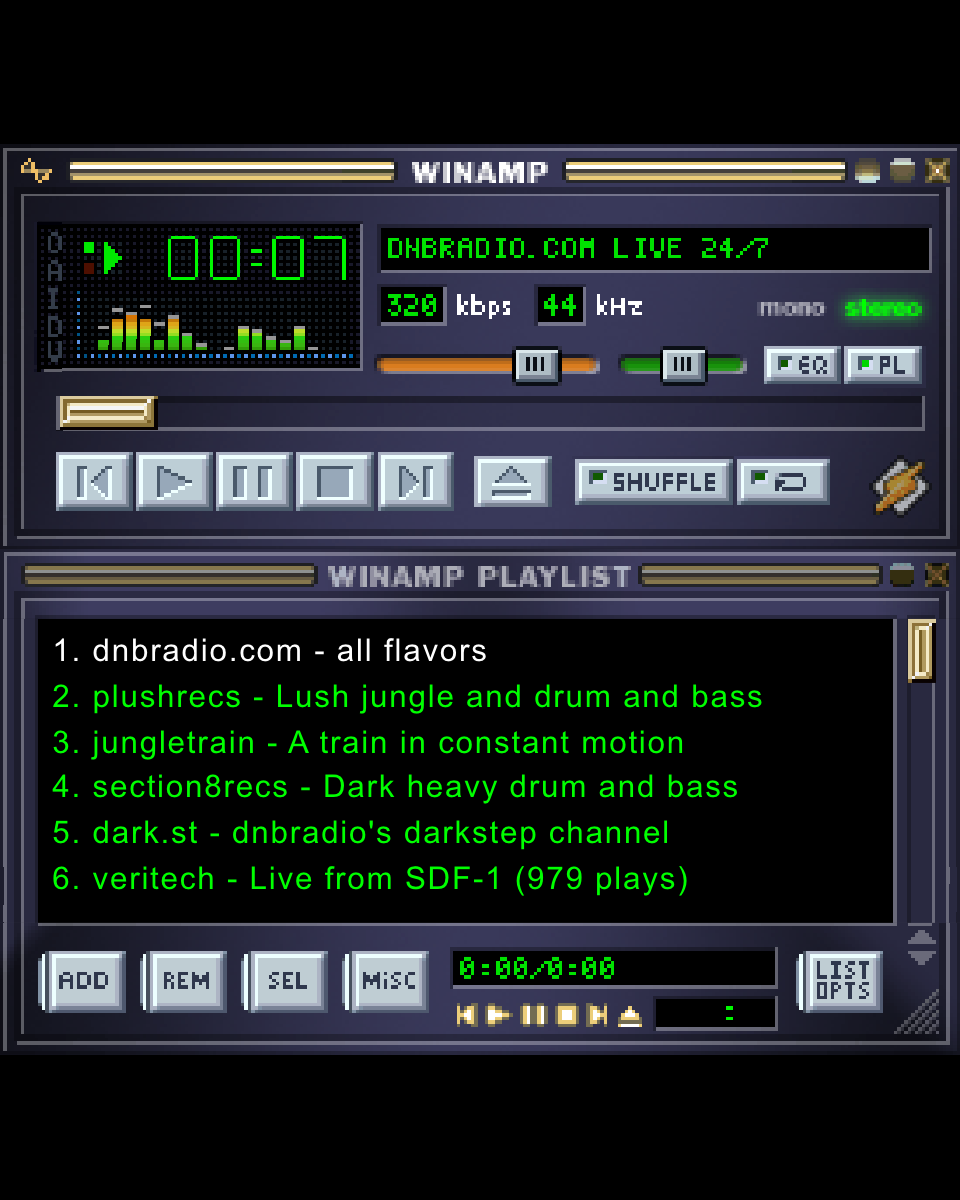
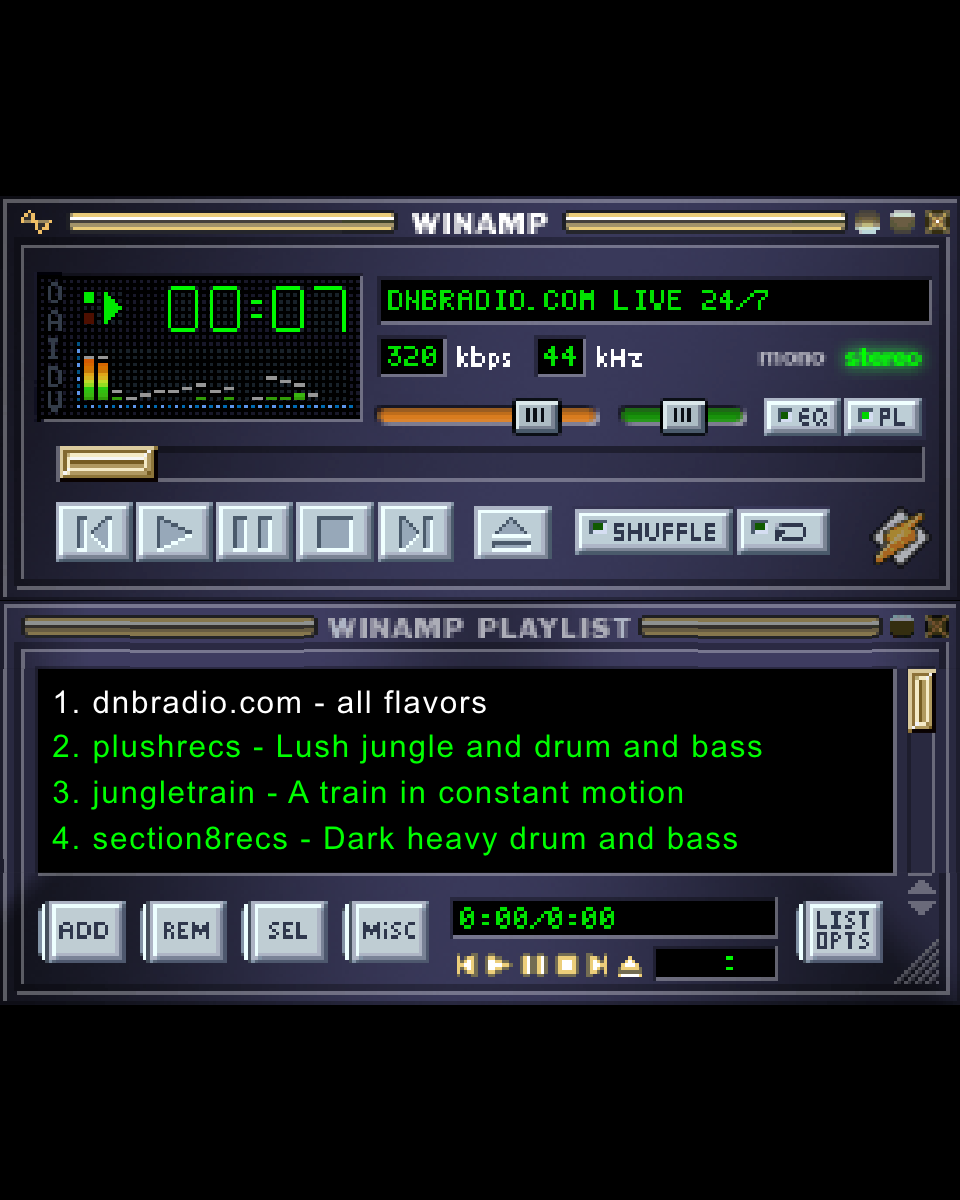
Embed: fixed default layout, EQ opens over the playlist, no saved placement
Every load now shows the main window above the playlist at Winamp's base size (four rows), whatever was saved before. The EQ opens at the playlist's position, covering it, and the DNBRADIO windows take the same place and size. Window positions, sizes, shade and open states are no longer saved or restored; skin, volume, balance, EQ settings, visualizer, and playlists still are. Card images retaken for the new layout.

diff --git a/pages/stations/_stationId/embed.vue b/pages/stations/_stationId/embed.vue
@@ -1,6 +1,10 @@
 <template>
   <div class="winamp-embed">
-    <div ref="stage" class="winamp-stage" />
+    <div
+      ref="stage"
+      class="winamp-stage"
+      :style="{ width: `${LAYOUT_WIDTH}px`, height: `${LAYOUT_HEIGHT}px` }"
+    />
     <div
       ref="windows"
       class="dnb-layer"
@@ -48,9 +52,14 @@ import { loadSettings, saveSettings } from "~/components/embed/settings";
 
 const LAYOUT_WIDTH = 275;
 const MAIN_HEIGHT = 116;
-const PLAYLIST_HEIGHT = 145;
+const PLAYLIST_HEIGHT = 116;
 const LAYOUT_HEIGHT = MAIN_HEIGHT + PLAYLIST_HEIGHT;
 const STANDALONE_MAX_WIDTH = 500;
+const WINDOW_LAYOUT = {
+  main: { position: { top: 0, left: 0 } },
+  equalizer: { position: { top: MAIN_HEIGHT, left: 0 }, closed: true },
+  playlist: { position: { top: MAIN_HEIGHT, left: 0 } },
+};
 const DEFAULT_PODCASTS = 20;
 // Passed as a track duration so Webamp neither probes the URL for its length
 // (which would open every stream on load) nor shows 0:00; rewritten to null.
@@ -76,8 +85,8 @@ const EXTRA_WINDOWS = {
   podcasts: { x: 0, y: MAIN_HEIGHT },
   info: { x: 0, y: MAIN_HEIGHT },
   addUrl: { x: 0, y: MAIN_HEIGHT },
-  loadList: { x: 0, y: MAIN_HEIGHT + 29 },
-  saveList: { x: 0, y: MAIN_HEIGHT + 29 },
+  loadList: { x: 0, y: MAIN_HEIGHT },
+  saveList: { x: 0, y: MAIN_HEIGHT },
 };
 const MENU_ITEMS = [
   ["schedule", "DNBRADIO Schedule"],
@@ -172,14 +181,6 @@ export default {
           this.activeList !== "default" ||
           !this.playlistUrls.includes(station.streams[0].url)
       );
-    },
-  },
-  watch: {
-    extraWindows: {
-      deep: true,
-      handler() {
-        this.scheduleSave();
-      },
     },
   },
   methods: {
@@ -339,6 +340,15 @@ export default {
             action.type === "SET_WINDOW_VISIBILITY") &&
           store.getState().windows.genWindows[action.windowId]?.open
         ) {
+          if (action.windowId === "equalizer") {
+            store.dispatch({
+              type: "UPDATE_WINDOW_POSITIONS",
+              positions: {
+                equalizer:
+                  store.getState().windows.genWindows.playlist.position,
+              },
+            });
+          }
           store.dispatch({
             type: "SET_FOCUSED_WINDOW",
             window: action.windowId,
@@ -634,47 +644,9 @@ export default {
       );
       this.podcasts = responses.flat();
     },
-    savedLayout() {
-      const saved = this.settings.windows || {};
-      const layout = {
-        main: { position: { top: 0, left: 0 } },
-        equalizer: { position: { top: MAIN_HEIGHT, left: 0 }, closed: true },
-        playlist: {
-          position: { top: MAIN_HEIGHT, left: 0 },
-          size: { extraHeight: 1, extraWidth: 0 },
-        },
-      };
-      Object.keys(layout).forEach((id) => {
-        const win = saved[id];
-        if (!win) {
-          return;
-        }
-        layout[id].position = { top: win.y, left: win.x };
-        layout[id].closed = !win.open;
-        layout[id].shadeMode = win.shade;
-        if (id === "playlist" && win.size) {
-          layout[id].size = {
-            extraWidth: win.size[0],
-            extraHeight: win.size[1],
-          };
-        }
-      });
-      return layout;
-    },
     restoreSettings() {
-      const { media, equalizer, visualizerStyle, windows } = this.settings;
+      const { media, equalizer, visualizerStyle } = this.settings;
       const store = this.webamp.store;
-      if (windows) {
-        const positions = {};
-        Object.entries(windows).forEach(([id, win]) => {
-          positions[id] = { x: win.x, y: win.y };
-        });
-        store.dispatch({
-          type: "UPDATE_WINDOW_POSITIONS",
-          positions,
-          absolute: true,
-        });
-      }
       if (media) {
         store.dispatch({ type: "SET_VOLUME", volume: media.volume });
         store.dispatch({ type: "SET_BALANCE", balance: media.balance });
@@ -709,14 +681,6 @@ export default {
       ) {
         store.dispatch({ type: "TOGGLE_VISUALIZER_STYLE" });
       }
-      Object.entries(this.settings.extraWindows || {}).forEach(([id, win]) => {
-        if (this.extraWindows[id]) {
-          Object.assign(this.extraWindows[id], win);
-        }
-      });
-      this.webampOnTop = !Object.values(this.extraWindows).some(
-        (win) => win.open
-      );
     },
     scheduleSave() {
       if (!this.ready || this.saveTimeout) {
@@ -725,20 +689,8 @@ export default {
       this.saveTimeout = setTimeout(() => {
         this.saveTimeout = null;
         const state = this.webamp.store.getState();
-        const windows = {};
-        ["main", "equalizer", "playlist"].forEach((id) => {
-          const win = state.windows.genWindows[id];
-          windows[id] = {
-            x: win.position.x,
-            y: win.position.y,
-            open: win.open,
-            shade: !!win.shade,
-            size: win.size,
-          };
-        });
         saveSettings({
           skinUrl: this.skinUrl,
-          windows,
           media: {
             volume: state.media.volume,
             balance: state.media.balance,
@@ -748,7 +700,6 @@ export default {
           },
           equalizer: state.equalizer,
           visualizerStyle: state.display.visualizerStyle,
-          extraWindows: this.extraWindows,
           playlists: { ...this.playlists, active: this.activeList },
         });
       }, 500);
@@ -762,7 +713,6 @@ export default {
         this.rememberPlaylist();
       }
       const persisted = JSON.stringify([
-        state.windows.genWindows,
         state.media.volume,
         state.media.balance,
         state.media.shuffle,
@@ -814,7 +764,7 @@ export default {
           url: `${this.$config.APP_BASE_URL}skins/${file}.wsz`,
           name,
         })),
-        windowLayout: this.savedLayout(),
+        windowLayout: WINDOW_LAYOUT,
         enableHotkeys: true,
         enableMediaSession: true,
         handleAddUrlEvent: () => {
@@ -924,8 +874,6 @@ html.dnb-embed #webamp {
   position: absolute;
   top: 0;
   left: 0;
-  width: 275px;
-  height: 261px;
 }
 .winamp-unsupported {
   color: #0f0;

diff --git a/components/embed/ExtraWindows.vue b/components/embed/ExtraWindows.vue
@@ -97,10 +97,10 @@ import ListRows from "./ListRows.vue";
 
 const WIDTH = 275;
 const WINDOWS = [
-  { id: "schedule", title: "DNBRADIO SCHEDULE", height: 145 },
-  { id: "podcasts", title: "DNBRADIO PODCASTS", height: 145 },
-  { id: "info", title: "STATION INFO", height: 145 },
-  { id: "addUrl", title: "ADD URL", height: 145 },
+  { id: "schedule", title: "DNBRADIO SCHEDULE", height: 116 },
+  { id: "podcasts", title: "DNBRADIO PODCASTS", height: 116 },
+  { id: "info", title: "STATION INFO", height: 116 },
+  { id: "addUrl", title: "ADD URL", height: 116 },
   { id: "loadList", title: "LOAD LIST", height: 116 },
   { id: "saveList", title: "SAVE LIST", height: 116 },
 ];

diff --git a/README.md b/README.md
@@ -69,7 +69,7 @@ Posting `https://dnbradio.com/player/` (or `/player/stations/<id>/`, `/player/da
   - The default playlist is the five stations plus the 20 newest podcasts (with playcounts). It can't be emptied: Remove all or New list starts a separate list, and Load list > default brings it back. Stations removed from it are offered again in Add URL.
   - ADD > Add URL, ADD > Add file, LIST OPTS > Save list (.m3u or .pls) and Load list open Winamp-style windows from `components/embed/`. Winamp's main menu (top-left icon or right-click) adds DNBRADIO Schedule, DNBRADIO Podcasts, and Station Info windows.
   - The kbps, kHz, and mono/stereo readouts come from the stream's or file's own frame headers (`components/embed/audioInfo.js`); Webamp alone shows fixed values for anything it doesn't tag-scan.
-  - Window positions, skin, volume, balance, EQ, visualizer, open windows, and both playlists are kept in `localStorage` (`dnbradio-embed`).
+  - Every load starts with the main window above the playlist at its base size; the EQ and the DNBRADIO windows open in the playlist's place. Window placement is not remembered. Skin, volume, balance, EQ settings, visualizer, and both playlists are kept in `localStorage` (`dnbradio-embed`).
 - `nuxt.config.js` writes the `twitter:*` and `og:*` tags into each station page at generate time (`generate:page` hook). The site runs with `ssr: false`, so a page's `head()` never reaches the HTML that X's crawler reads. The card is square (480×480 player) to match the Winamp layout.
 - `static/x-card/winamp-station-<id>.png` are the 1200×1200 card images: screenshots of the embed for each station in a playing state (fed a short sample of that station's stream), taken in headless Chrome at 480×480 and 2.5× scale. Retake them when the stations or the layout change.
 - Cloudflare Pages previews point their card tags at the preview itself and add `/x-card-test/square/`, `/x-card-test/portrait/`, and `/x-card-test/landscape/`, so card shapes can be compared on X before deploying.
